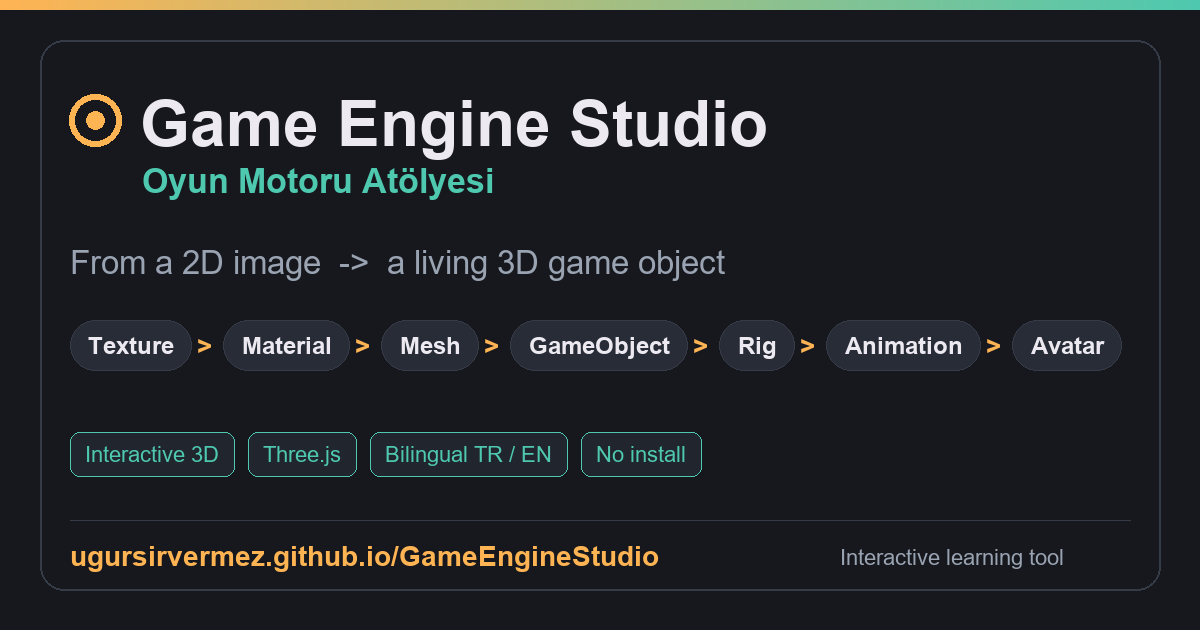
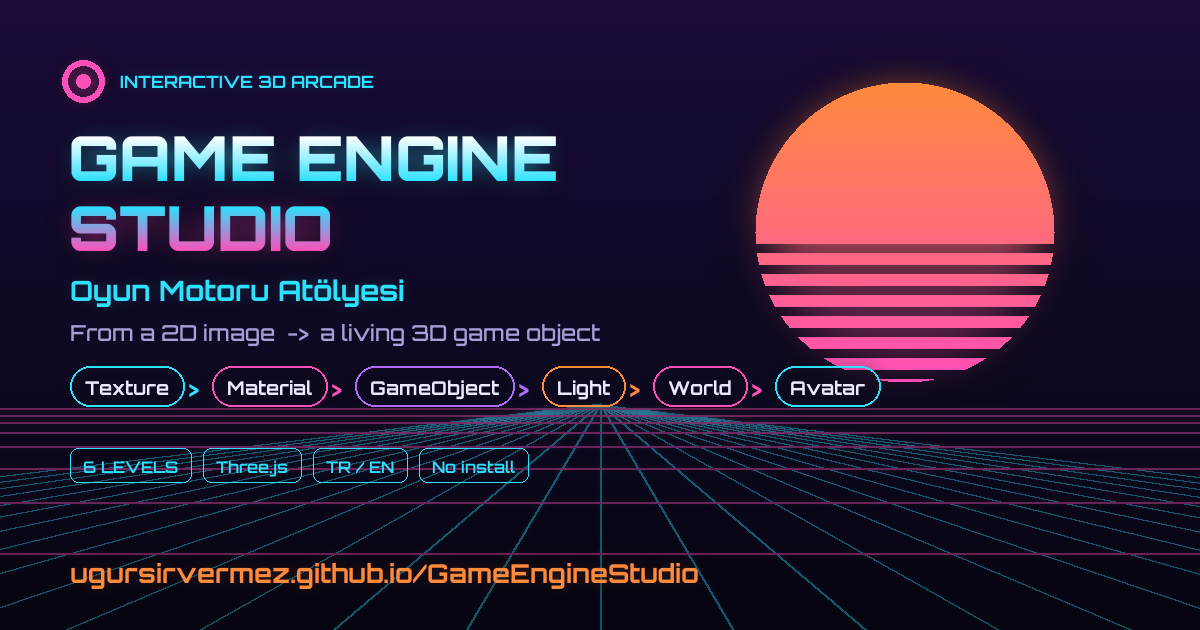
Update Theme

diff --git a/js/main.js b/js/main.js
@@ -519,9 +519,9 @@ function renderTasks() {
   for (let n = 1; n <= 6; n++) {
     const el = document.getElementById('task-' + n); if (!el) continue; const isDone = doneSet.has(n);
     el.innerHTML = `<div class="task-icon">🎯</div>` +
-      `<div class="task-main"><div class="task-label">${LANG === 'tr' ? 'Mini Görev' : 'Mini Task'}</div><div class="task-goal">${L(CHAL[n].goal)}</div></div>` +
-      `<div class="task-status ${isDone ? 'done' : ''}"><span>${isDone ? '✅' : '⏳'}</span><span>${isDone ? (LANG === 'tr' ? 'Tamamlandı' : 'Done') : (LANG === 'tr' ? 'Bekliyor' : 'Waiting')}</span></div>` +
-      `<div class="task-progress">🏅 ${LANG === 'tr' ? 'Rozet' : 'Badge'}: <b>${doneSet.size}/6</b></div>`;
+      `<div class="task-main"><div class="task-label">${LANG === 'tr' ? '◆ GÖREV' : '◆ QUEST'}</div><div class="task-goal">${L(CHAL[n].goal)}</div></div>` +
+      `<div class="task-status ${isDone ? 'done' : ''}"><span>${isDone ? '✅' : '⏳'}</span><span>${isDone ? (LANG === 'tr' ? 'TAMAM' : 'COMPLETE') : (LANG === 'tr' ? 'BEKLİYOR' : 'LOCKED')}</span></div>` +
+      `<div class="task-progress">🏅 <b>${doneSet.size}/6</b></div>`;
   }
 }
 function updateTracker() {
@@ -532,7 +532,7 @@ function markDone(n) {
   if (doneSet.has(n)) return; doneSet.add(n);
   renderTasks(); updateTracker(); updateFinale();
   const pill = document.querySelector(`#roadmap a[href="#stage-${n}"]`); if (pill) pill.classList.add('done');
-  showToast('✅ ' + (LANG === 'tr' ? `Görev tamam!  ·  🏅 ${doneSet.size}/6` : `Task done!  ·  🏅 ${doneSet.size}/6`));
+  showToast('⚡ ' + (LANG === 'tr' ? `GÖREV TAMAM!  ·  🏅 ${doneSet.size}/6` : `QUEST COMPLETE!  ·  🏅 ${doneSet.size}/6`));
 }
 function evaluateChallenges() { for (let n = 1; n <= 6; n++) { if (!doneSet.has(n)) { try { if (CHAL[n].check()) markDone(n); } catch (e) {} } } }
 function updateFinale() {
@@ -585,8 +585,8 @@ stageEls.forEach(s => spy.observe(s));
 const STR = {
   'brand.title': { tr: 'Oyun Motoru Atölyesi', en: 'Game Engine Studio' },
   'brand.sub': { tr: '2D Görsel → 3D Oyun Nesnesi', en: '2D Image → 3D Game Object' },
-  'brand.start': { tr: '▶ Yolculuğa Başla', en: '▶ Start the Journey' },
-  'hero.eyebrow': { tr: '🎮 Etkileşimli 3D Atölye', en: '🎮 Interactive 3D Studio' },
+  'brand.start': { tr: '▶ PRESS START', en: '▶ PRESS START' },
+  'hero.eyebrow': { tr: '🕹 ETKİLEŞİMLİ 3D ARCADE', en: '🕹 INTERACTIVE 3D ARCADE' },
   'hero.title': { tr: 'Bir 2D görselden,<br>yaşayan bir 3D oyun nesnesine', en: 'From a 2D image<br>to a living 3D game object' },
   'hero.lead': { tr: 'Bir karakteri katman katman, kendi ellerinle inşa et: doku, materyal, ışık, iskelet ve animasyon. Okuyarak değil — <b>dokunarak</b>.', en: 'Build a character layer by layer with your own hands: texture, material, light, rig and animation. Not by reading — by <b>doing</b>.' },
   'hero.hint': { tr: '6 aşama · her birinde mini görev · TR/EN', en: '6 stages · a mini task in each · TR/EN' },
@@ -621,7 +621,7 @@ const STR = {
   's6.lead': { tr: 'Şimdi her şey bir arada. Onlarca GameObject bir <b>Hiyerarşi</b> içinde iç içe geçer, bir <b>Rig (iskelet)</b> onları bağlar ve <b>Animation</b> bu iskeleti hareket ettirir. Aşağıda gerçek bir editör var — tıkla, düzenle, oynat.', en: 'Now everything comes together. Dozens of GameObjects nest inside a <b>Hierarchy</b>, a <b>Rig (skeleton)</b> links them, and <b>Animation</b> moves that skeleton. Below is a real editor — click, edit, play.' },
   'ed.hierarchy': { tr: '⛬ Hiyerarşi', en: '⛬ Hierarchy' }, 'ed.scenegraph': { tr: 'Sahne Grafiği', en: 'Scene Graph' }, 'ed.hierarchyhint': { tr: 'Parent → Child ilişkisi. Bir öğeye tıkla → seç.', en: 'Parent → Child. Click an item → select.' }, 'ed.animation': { tr: 'Animasyon', en: 'Animation' }, 'ed.manual': { tr: '⏹ Manuel', en: '⏹ Manual' }, 'ed.wave': { tr: '👋 El Salla', en: '👋 Wave' }, 'ed.walk': { tr: '🚶 Yürü', en: '🚶 Walk' }, 'ed.view': { tr: 'Görünüm', en: 'View' }, 'ed.rig': { tr: '🦴 Rig / İskelet', en: '🦴 Rig / Skeleton' }, 'ed.resetcam': { tr: '🎯 Kamerayı Sıfırla', en: '🎯 Reset Camera' }, 'ed.selected': { tr: 'Seçili:', en: 'Selected:' }, 'ed.loading': { tr: '3D sahne hazırlanıyor…', en: 'Preparing 3D scene…' }, 'ed.inspector': { tr: '⚙ Inspector', en: '⚙ Inspector' }, 'ed.properties': { tr: 'Özellikler', en: 'Properties' }, 'ed.empty': { tr: 'Bir nesne seç ve özelliklerini burada düzenle.', en: 'Select an object to edit its properties here.' },
   'tour.intro.title': { tr: 'Editör turunu başlatmak için "Sonraki"ye bas', en: 'Hit "Next" to start the editor tour' }, 'tour.intro.body': { tr: 'Her adım ilgili nesneyi otomatik seçer ve ne deneyeceğini söyler.', en: 'Each step auto-selects the relevant object and tells you what to try.' }, 'tour.prev': { tr: '‹ Önceki', en: '‹ Prev' }, 'tour.next': { tr: 'Sonraki ›', en: 'Next ›' },
-  'finale.lockedTitle': { tr: 'Atölyeyi tamamla', en: 'Complete the studio' }, 'finale.lockedBody': { tr: 'Her aşamadaki <b>mini görevi</b> bitir (sağ üstteki 🏅 sayacı dolacak); 6/6 olunca bu rozet parlayacak.', en: 'Finish the <b>mini task</b> in every stage (the 🏅 counter at the top right fills up); at 6/6 this badge lights up.' }, 'finale.doneTitle': { tr: '🎉 Tebrikler, Atölyeyi tamamladın!', en: '🎉 Congrats, you completed the studio!' }, 'finale.doneBody': { tr: 'Texture\'dan animasyona, bir oyun nesnesinin tüm katmanlarını kendi ellerinle kurdun. Artık gerçek motora hazırsın!', en: 'From textures to animation, you built every layer of a game object yourself. You are ready for a real engine!' },
+  'finale.lockedTitle': { tr: 'Atölyeyi tamamla', en: 'Complete the studio' }, 'finale.lockedBody': { tr: 'Her aşamadaki <b>mini görevi</b> bitir (sağ üstteki 🏅 sayacı dolacak); 6/6 olunca bu rozet parlayacak.', en: 'Finish the <b>mini task</b> in every stage (the 🏅 counter at the top right fills up); at 6/6 this badge lights up.' }, 'finale.doneTitle': { tr: '🏆 BAŞARIM AÇILDI! Atölyeyi tamamladın!', en: '🏆 ACHIEVEMENT UNLOCKED! Studio complete!' }, 'finale.doneBody': { tr: 'Texture\'dan animasyona, bir oyun nesnesinin tüm katmanlarını kendi ellerinle kurdun. Artık gerçek motora hazırsın!', en: 'From textures to animation, you built every layer of a game object yourself. You are ready for a real engine!' },
   'gloss.title': { tr: 'Kavram Sözlüğü', en: 'Concept Glossary' },
   'footer': { tr: 'Oyun Motoru Atölyesi · Three.js ile geliştirildi · Öğrenciler için açık eğitim materyali', en: 'Game Engine Studio · Built with Three.js · Open educational material for students' },
 };

diff --git a/css/style.css b/css/style.css
@@ -673,3 +673,96 @@ input[type="color"] {
   .stage-badge { width: 44px; height: 44px; font-size: 18px; border-radius: 13px; }
   .stage-title { font-size: 20px; }
 }
+
+/* ====================================================================
+   NEON ARCADE / SYNTHWAVE TEMA
+   ==================================================================== */
+:root {
+  --bg: #0b0918; --bg-2: #120e26; --panel: #15102e; --panel-2: #1b1540;
+  --line: #3a2e72; --line-soft: #261f4a;
+  --text: #ece9ff; --text-dim: #a79fd6; --text-mut: #6f6699;
+  --accent: #ff8a3c; --accent-2: #2de2ff;
+  --neon-pink: #ff4fb8; --neon-cyan: #2de2ff; --neon-purple: #b16bff; --neon-orange: #ff8a3c;
+  --shadow: 0 10px 36px rgba(0,0,0,.55);
+  --font-display: 'Orbitron', -apple-system, "Segoe UI", sans-serif;
+}
+body { background: #0b0918; }
+
+/* Synthwave gökyüzü + güneş */
+body::before {
+  content: ''; position: fixed; inset: 0; z-index: -3; pointer-events: none;
+  background:
+    radial-gradient(ellipse 70% 42% at 50% 90%, rgba(255,79,184,.22), transparent 60%),
+    radial-gradient(circle 240px at 50% 97%, rgba(255,138,60,.32), transparent 70%),
+    linear-gradient(180deg, #170b33 0%, #0c0920 52%, #060410 100%);
+}
+/* Hareketli perspektif ızgara (synthwave zemin) */
+body::after {
+  content: ''; position: fixed; left: 50%; bottom: -4vh; z-index: -2; pointer-events: none;
+  width: 320vw; height: 66vh;
+  transform: translateX(-50%) perspective(320px) rotateX(61deg); transform-origin: 50% 100%;
+  background-image:
+    repeating-linear-gradient(90deg, rgba(45,226,255,.55) 0 1px, transparent 1px 86px),
+    repeating-linear-gradient(0deg, rgba(255,79,184,.45) 0 1px, transparent 1px 86px);
+  -webkit-mask-image: linear-gradient(transparent 0%, #000 58%); mask-image: linear-gradient(transparent 0%, #000 58%);
+  animation: gridScroll 2.4s linear infinite; opacity: .5;
+}
+@keyframes gridScroll { to { background-position: 0 86px, 0 86px; } }
+/* CRT scanline + vignette */
+.crt { position: fixed; inset: 0; z-index: 60; pointer-events: none; background: repeating-linear-gradient(0deg, rgba(0,0,0,.16) 0 1px, transparent 1px 3px); opacity: .25; mix-blend-mode: overlay; }
+.crt::after { content: ''; position: absolute; inset: 0; box-shadow: inset 0 0 220px rgba(8,4,20,.8); }
+
+/* Orbitron başlıklar / oyun UI yazıları */
+.topbar h1, .hero-big, .stage-title, .lesson-title, .finale h2, .hero-eyebrow,
+.stage-badge, .badge-tracker, .stage-chip, .rm-tx, .panel-title, .lesson-step,
+.task-label, .lang-btn, .mat-shader, .finale-progress { font-family: var(--font-display); letter-spacing: .6px; }
+
+/* Üst şerit = arcade HUD */
+.topbar { background: rgba(12,9,24,.8); backdrop-filter: blur(8px); border-bottom: 1px solid var(--neon-cyan); box-shadow: 0 2px 24px rgba(45,226,255,.22); }
+.logo { color: var(--neon-pink); filter: drop-shadow(0 0 12px var(--neon-pink)); }
+.topbar h1 { font-size: 16px; color: #fff; text-shadow: 0 0 12px rgba(45,226,255,.55); }
+
+/* Neon başlıklar */
+.hero-big { background: linear-gradient(100deg, #ffffff 0%, var(--neon-cyan) 45%, var(--neon-pink) 100%); -webkit-background-clip: text; background-clip: text; filter: drop-shadow(0 0 18px rgba(45,226,255,.35)); }
+.hero-eyebrow { color: var(--neon-cyan); background: rgba(45,226,255,.1); border-color: var(--neon-cyan); box-shadow: 0 0 16px rgba(45,226,255,.3); text-shadow: 0 0 8px rgba(45,226,255,.5); }
+.stage-title { text-shadow: 0 0 14px color-mix(in srgb, var(--sa) 55%, transparent); }
+
+/* Butonlar = neon */
+.btn-cta { background: linear-gradient(135deg, var(--neon-pink), var(--neon-orange)); color: #1a0418; box-shadow: 0 0 26px rgba(255,79,184,.6); }
+.btn-cta:hover { box-shadow: 0 0 42px rgba(255,79,184,.9); }
+.btn-accent { background: linear-gradient(135deg, var(--neon-pink), #ff7ad0); color: #1a0418; border-color: transparent; box-shadow: 0 0 18px rgba(255,79,184,.45); }
+.btn:hover { border-color: var(--neon-cyan); box-shadow: 0 0 14px rgba(45,226,255,.4); }
+.btn-tool.active { background: rgba(45,226,255,.14); border-color: var(--neon-cyan); color: #cdf6ff; box-shadow: 0 0 14px rgba(45,226,255,.4); }
+
+/* Paneller / 3D kutuları neon kenar */
+.viewport, .preview3d, .hero-canvas { box-shadow: 0 0 26px rgba(45,226,255,.13), inset 0 0 60px rgba(177,107,255,.06); }
+
+/* Yol haritası = LEVEL SELECT */
+.roadmap a { background: rgba(21,16,46,.72); }
+.roadmap a:hover, .roadmap a.active { box-shadow: 0 0 18px color-mix(in srgb, var(--sa) 55%, transparent); text-shadow: 0 0 8px var(--sa); }
+.roadmap a.done { box-shadow: 0 0 14px rgba(45,226,255,.5); }
+
+/* Stage badge = LEVEL rozeti */
+.stage-badge { position: relative; box-shadow: 0 0 22px color-mix(in srgb, var(--sa) 70%, transparent); }
+.stage-badge::before { content: 'LVL'; position: absolute; top: -15px; left: 50%; transform: translateX(-50%); font-family: var(--font-display); font-size: 9px; font-weight: 700; letter-spacing: 1.5px; color: var(--sa); text-shadow: 0 0 8px var(--sa); }
+.stage-chip { box-shadow: 0 0 12px color-mix(in srgb, var(--sa) 28%, transparent); }
+
+/* QUEST şeridi */
+.stage-task { box-shadow: 0 0 0 1px color-mix(in srgb, var(--sa) 25%, transparent), 0 0 24px color-mix(in srgb, var(--sa) 13%, transparent); }
+.task-status.done { box-shadow: 0 0 16px color-mix(in srgb, var(--sa) 55%, transparent); }
+.task-label { color: var(--sa); text-shadow: 0 0 8px color-mix(in srgb, var(--sa) 60%, transparent); }
+
+/* Rozet takipçisi (HUD) */
+.badge-tracker { border-color: var(--neon-cyan); box-shadow: 0 0 14px rgba(45,226,255,.3); }
+.badge-tracker.complete { background: linear-gradient(135deg, var(--neon-pink), var(--neon-cyan)); box-shadow: 0 0 26px rgba(45,226,255,.7); }
+
+/* Finale = ACHIEVEMENT */
+.finale { border: 1px solid var(--neon-pink); box-shadow: 0 0 36px rgba(255,79,184,.25); background: linear-gradient(135deg, rgba(255,79,184,.1), rgba(45,226,255,.1)); }
+.finale h2 { text-shadow: 0 0 16px rgba(255,79,184,.5); }
+.finale-badge { filter: drop-shadow(0 0 16px var(--neon-orange)); }
+
+/* Toast / seçim / kaydırıcı */
+.toast { border-color: var(--neon-cyan); box-shadow: 0 0 26px rgba(45,226,255,.5); background: rgba(21,16,46,.96); color: #cdf6ff; }
+.node-row.selected { background: rgba(45,226,255,.14); outline-color: var(--neon-cyan); box-shadow: 0 0 12px rgba(45,226,255,.3); color: #cdf6ff; }
+input[type="range"] { accent-color: var(--neon-pink); }
+.code-toggle:hover { box-shadow: 0 0 14px rgba(45,226,255,.35); }

diff --git a/index.html b/index.html
@@ -17,7 +17,10 @@
   <meta name="twitter:title" content="Game Engine Studio · Oyun Motoru Atölyesi" />
   <meta name="twitter:image" content="https://ugursirvermez.github.io/GameEngineStudio/cover.png" />
 
-  <link rel="stylesheet" href="css/style.css?v=4" />
+  <link rel="preconnect" href="https://fonts.googleapis.com" />
+  <link rel="preconnect" href="https://fonts.gstatic.com" crossorigin />
+  <link href="https://fonts.googleapis.com/css2?family=Orbitron:wght@500;700;900&display=swap" rel="stylesheet" />
+  <link rel="stylesheet" href="css/style.css?v=5" />
   <script type="importmap">
   { "imports": { "three": "./vendor/three.module.js", "three/addons/controls/OrbitControls.js": "./vendor/OrbitControls.js" } }
   </script>
@@ -249,6 +252,7 @@
   <section class="glossary"><h2 data-i18n="gloss.title">Kavram Sözlüğü</h2><div class="glossary-grid" id="glossaryGrid"></div></section>
   <footer class="site-footer"><p data-i18n="footer">Oyun Motoru Atölyesi · Three.js ile geliştirildi · Öğrenciler için açık eğitim materyali</p></footer>
   <div class="toast" id="toast"></div>
+  <div class="crt" aria-hidden="true"></div>
 
   <script>
     (function () {
@@ -259,6 +263,6 @@
       window.addEventListener('error', function (e) { if (e && e.target && e.target.tagName === 'SCRIPT' && !window.__sceneReady) showError('Bir dosya yüklenemedi: <code ' + code + '>' + (e.target.src || '') + '</code>'); }, true);
     })();
   </script>
-  <script type="module" src="js/main.js?v=4"></script>
+  <script type="module" src="js/main.js?v=5"></script>
 </body>
 </html>

diff --git a/README.md b/README.md
@@ -9,6 +9,22 @@
 > **No install, no setup — just click the link above.** Works in any modern browser, on any device.
 > Share this one link with your students and you're done.
 
+## 🎬 A glimpse
+
+**Build a GameObject — add a Mesh, then apply the Material you made:**
+
+![GameObject Lab — add a mesh and apply a material](GIF-1.gif)
+
+**A whole world is a GameObject hierarchy too — a house in a garden, with roads and passing cars:**
+
+![World scene — house hierarchy, garden, roads and cars](GIF-3.gif)
+
+**The Avatar editor — explore the hierarchy, rig and animation:**
+
+![Avatar editor — hierarchy, rig and animation](GIF-2.gif)
+
+---
+
 An interactive learning journey that goes **from a 2D image to a working 3D game object**.
 It is built to help students *grasp by doing* the core game-engine concepts:
 **Texture, Material, Mesh, GameObject, Lighting, Normal Map, Hierarchy, Rig and Animation**.
@@ -21,8 +37,8 @@ carries over into the next stage:
 | **01** | 📷 **Texture** | Pick a 2D pattern; see its flat (2D) form and how it **tiles** on a surface. |
 | **02** | 🎨 **Material Studio** | *Just like Unity:* drop a Texture into a slot and add color / metalness / roughness to **build a Material**. Live 3D sphere preview. |
 | **03** | 🧊 **GameObject Lab** | Empty GameObject → add a **Mesh** (shape) → apply the **Material** you built. Component list: Transform / Mesh Filter / Mesh Renderer. |
-| **04** | 💡 **Lighting** | Move a light around a sphere; see how direction, intensity, color and **roughness** change how the surface looks. |
-| **05** | 🗿 **Normal Map** | Make a flat sphere look **bumpy** with a single texture — toggle it on/off and prove the geometry never changed with Wireframe. |
+| **04** | 💡 **Light & Surface** | Move a light around a sphere and toggle a **normal map** — see how direction, **roughness** and fake bumps change the look, while the geometry never changes. |
+| **05** | 🏠 **World / Scene** | A whole world is a GameObject hierarchy too: a **house** (`Garden → House → Roof, Walls, Door…`) wearing the material you built, in a garden with roads and **cars that drive off and vanish at the map edge**. |
 | **06** | 🤖 **Avatar Editor** | Many GameObjects become a full avatar through **Hierarchy**, **Rig** and **Animation**. Click-select, edit, play. |
 
 Every stage also has a **💻 Show Code** button (the real Three.js snippet, copyable) and a
@@ -44,8 +60,8 @@ and walk down the page:
 | **01 · Texture** | Pick different patterns; show how the same image **tiles** across a surface. Point out that the chosen texture carries into the next stage. |
 | **02 · Material** | Fill the texture slot, play with **Metalness / Roughness**; show the sphere updating live. Drive home: "Texture + properties = Material". |
 | **03 · GameObject** | Run **1) Add Mesh → 2) Apply Material**. Show the component list (**Transform / Mesh Filter / Mesh Renderer**) filling up — same idea as the Unity Inspector. Toggle **Wireframe** to reveal the mesh. |
-| **04 · Lighting** | Move the light; show the specular highlight sliding. Set **Roughness** low vs high to contrast glossy vs matte. |
-| **05 · Normal Map** | Toggle the normal map on; the sphere looks bumpy. Turn on **Wireframe** to prove the geometry is still smooth — the detail is a lighting trick. |
+| **04 · Light & Surface** | Move the light; show the specular highlight sliding. Set **Roughness** low vs high (glossy vs matte). Toggle the **Normal Map** on, then **Wireframe** to prove the bumps are a lighting trick — geometry unchanged. |
+| **05 · World / Scene** | Click parts of the **house** in the hierarchy (Roof, Walls, Door…) — same parent/child idea as a character rig, but for a building. Note the walls wear the material from Stage 2, and the cars drive off and vanish at the map edge. |
 | **06 · Avatar** | Press **Next** to run the editor tour (Hierarchy → Mesh → Rig → Animation → Avatar). Rotate `Hips` (parent/child), turn on **Rig**, and play **Wave / Walk** to watch the animation drive the rig. |
 
 > 💡 Tips: Open **💻 Show Code** on any stage to reveal the real Three.js behind it. Have students
